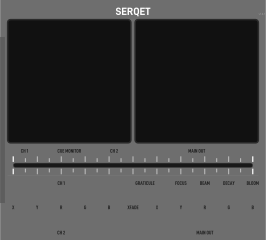
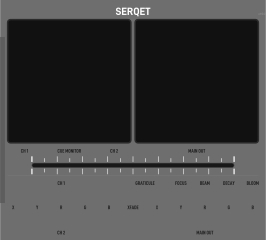
feat(Serqet): 108.24mm crossfader, bumper cut buttons, CV-driven grabber, and calibrated defaults (v1.5.0)

diff --git a/src/Serqet.cpp b/src/Serqet.cpp
@@ -69,6 +69,8 @@ struct Serqet : Module {
 		CROSSFADE_PARAM,
 		CUE_CH1_PARAM,
 		CUE_CH2_PARAM,
+		BUMPER_CH1_PARAM,
+		BUMPER_CH2_PARAM,
 		PARAMS_LEN
 	};
 
@@ -135,6 +137,9 @@ struct Serqet : Module {
 	int cueSource = 0;
 	dsp::BooleanTrigger ch1BtnTrigger;
 	dsp::BooleanTrigger ch2BtnTrigger;
+	dsp::BooleanTrigger bumperCh1Trigger;
+	dsp::BooleanTrigger bumperCh2Trigger;
+	std::atomic<float> effectiveAlpha{0.0f};
 
 	// Dual ring buffers for CRT displays
 	SerqetRingBuffer mainBuffer;
@@ -146,19 +151,21 @@ struct Serqet : Module {
 		// CRT Emulation Attenuverter Knobs
 		configParam(GRATICULE_CUE_PARAM, 0.0f, 1.0f, 0.25f, "Cue graticule opacity", "%", 0.0f, 100.0f);
 		configParam(GRATICULE_MAIN_PARAM, 0.0f, 1.0f, 0.0f, "Main graticule opacity", "%", 0.0f, 100.0f);
-		// Focus: 0.06mm (0%) to 0.725mm (100%), default 10% (~0.13mm)
-		configParam(FOCUS_PARAM, 0.0f, 1.0f, 0.10f, "Focus", "%", 0.0f, 100.0f);
-		// Beam Intensity: 25% (0%) to 150% (100%), default 0%
-		configParam(BEAM_PARAM, 0.0f, 1.0f, 0.00f, "Beam intensity", "%", 0.0f, 100.0f);
+		// Focus: min = current 40%, max = current 200%, default = current 50%
+		configParam(FOCUS_PARAM, 0.0f, 1.0f, 0.50f, "Focus", "%", 0.0f, 100.0f);
+		// Beam Intensity: default 50%
+		configParam(BEAM_PARAM, 0.0f, 1.0f, 0.50f, "Beam intensity", "%", 0.0f, 100.0f);
 		// Phosphor Decay: non-linear tanh afterglow, max 75%, default 5%
 		configParam(DECAY_PARAM, 0.0f, 1.0f, 0.05f, "Phosphor decay", "%", 0.0f, 100.0f);
-		// Optical Bloom: dual-scale halation and glass scatter, default 30%
-		configParam(BLOOM_PARAM, 0.0f, 1.0f, 0.30f, "Bloom", "%", 0.0f, 100.0f);
+		// Optical Bloom: dual-scale halation and glass scatter, default 25%
+		configParam(BLOOM_PARAM, 0.0f, 1.0f, 0.25f, "Bloom", "%", 0.0f, 100.0f);
 
-		// Horizontal Crossfade Slider & Cue Buttons
+		// Horizontal Crossfade Slider, Cue Buttons & Bumper Buttons
 		configParam(CROSSFADE_PARAM, 0.0f, 1.0f, 0.0f, "Crossfade", "%", 0.0f, 100.0f);
 		configButton(CUE_CH1_PARAM, "Cue channel 1");
 		configButton(CUE_CH2_PARAM, "Cue channel 2");
+		configButton(BUMPER_CH1_PARAM, "Channel 1 crossfader bumper");
+		configButton(BUMPER_CH2_PARAM, "Channel 2 crossfader bumper");
 
 		// Inputs
 		configInput(CH1_X_INPUT, "Ch 1 X");
@@ -241,6 +248,14 @@ struct Serqet : Module {
 			cueSource = 1;
 		}
 
+		// 1b. Process Bumper Buttons to immediately snap crossfader
+		if (bumperCh1Trigger.process(params[BUMPER_CH1_PARAM].getValue() > 0.5f)) {
+			params[CROSSFADE_PARAM].setValue(0.0f);
+		}
+		if (bumperCh2Trigger.process(params[BUMPER_CH2_PARAM].getValue() > 0.5f)) {
+			params[CROSSFADE_PARAM].setValue(1.0f);
+		}
+
 		// 2. Crossfade alpha
 		// Fader value 0.0 = Left (Ch 1), value 1.0 = Right (Ch 2)
 		float fader = params[CROSSFADE_PARAM].getValue();
@@ -248,6 +263,7 @@ struct Serqet : Module {
 			fader += inputs[XFADE_CV_INPUT].getVoltage() * 0.1f; // Positive CV pushes towards Ch 2 (right)
 		}
 		float alpha = clamp(fader, 0.0f, 1.0f); // 0.0 = Ch 1, 1.0 = Ch 2
+		effectiveAlpha.store(alpha, std::memory_order_relaxed);
 		float mixGain2 = computeCrossfadeRatio(alpha);
 		float mixGain1 = (xfadeCurve == XFADE_CONSTANT_POWER) ? std::cos(alpha * 1.57079632679f) : (1.0f - mixGain2);
 
@@ -526,10 +542,13 @@ struct SerqetCrtWidget : widget::TransparentWidget {
 
 		// 2. Electron Beam Spot & Intensity Setup (Analytical erf Gaussian Integration)
 		// Calibrated Focus Range:
-		// focusNorm = 0.0 (0%) -> sigma = 0.40 px (razor-thin sub-pixel beam, FWHM 0.94 px)
-		// focusNorm = 0.10 (10% default) -> sigma = 0.445 px (FWHM 1.05 px, visible width 2.5 - 3 px matching sosci)
-		// focusNorm = 1.0 (100%) -> sigma = 0.85 px (FWHM 2.0 px, visible width 5 px)
-		float sigma = 0.40f + focusNorm * 0.45f;
+		// knob 0% (min) -> current 40% (sigma = 0.58 px)
+		// knob 50% (default) -> current 50% (sigma = 0.625 px)
+		// knob 100% (max) -> current 200% (sigma = 1.30 px)
+		float currentPercent = (focusNorm <= 0.5f)
+			? (0.40f + focusNorm * 0.20f)
+			: (0.50f + (focusNorm - 0.50f) * 3.0f);
+		float sigma = 0.40f + currentPercent * 0.45f;
 		float inv2Sigma2 = 1.0f / (2.0f * sigma * sigma);
 		float sqrt2Sigma = 1.41421356f * sigma;
 
@@ -966,10 +985,18 @@ struct SerqetButton : app::SvgSwitch {
 	}
 };
 
+struct SerqetBumperButton : app::SvgSwitch {
+	SerqetBumperButton() {
+		momentary = true;
+		addFrame(Svg::load(asset::plugin(pluginInstance, "res/btn_bumper_0.svg")));
+		addFrame(Svg::load(asset::plugin(pluginInstance, "res/btn_bumper_1.svg")));
+	}
+};
+
 struct SerqetFader : app::SvgSlider {
 	SerqetFader() {
 		horizontal = true;
-		box.size = mm2px(math::Vec(128.24f, 10.00f));
+		box.size = mm2px(math::Vec(108.24f, 10.00f));
 		fb->box.size = box.size;
 		setHandleSvg(Svg::load(asset::plugin(pluginInstance, "res/crossfader.svg")));
 		float halfHandleX = handle->box.size.x / 2.0f;
@@ -978,6 +1005,15 @@ struct SerqetFader : app::SvgSlider {
 			math::Vec(halfHandleX, cy),                  // minValue (0.0, Ch 1) at LEFT
 			math::Vec(box.size.x - halfHandleX, cy)     // maxValue (1.0, Ch 2) at RIGHT
 		);
+	}
+
+	void step() override {
+		SvgSlider::step();
+		auto* mod = dynamic_cast<Serqet*>(module);
+		if (mod && handle) {
+			float norm = mod->effectiveAlpha.load(std::memory_order_relaxed);
+			handle->box.pos = minHandlePos.plus(maxHandlePos.minus(minHandlePos).mult(norm));
+		}
 	}
 };
 
@@ -1119,8 +1155,13 @@ struct SerqetWidget : ModuleWidget {
 		addParam(createParamCentered<SerqetButton>(mm2px(Vec(7.00f, 80.00f)), module, Serqet::CUE_CH1_PARAM));
 		addParam(createParamCentered<SerqetButton>(mm2px(Vec(67.00f, 80.00f)), module, Serqet::CUE_CH2_PARAM));
 
-		// ── Horizontal Crossfader Slider (Center X = 71.12 mm, Center Y = 88.50 mm) ──
+		// ── Horizontal Crossfader Slider (Center X = 71.12 mm, Center Y = 88.50 mm, Travel = 108.24 mm) ──
 		addParam(createParamCentered<SerqetFader>(mm2px(Vec(71.12f, 88.50f)), module, Serqet::CROSSFADE_PARAM));
+
+		// ── Crossfader Bumper Buttons (8x8mm, Center Y = 88.50 mm) ──
+		// Ch 1 bumper at Center X = 9.00 mm, Ch 2 bumper at Center X = 133.24 mm
+		addParam(createParamCentered<SerqetBumperButton>(mm2px(Vec(9.00f, 88.50f)), module, Serqet::BUMPER_CH1_PARAM));
+		addParam(createParamCentered<SerqetBumperButton>(mm2px(Vec(133.24f, 88.50f)), module, Serqet::BUMPER_CH2_PARAM));
 
 		// ── Row 1 (Center Y = 104.00 mm) ──
 		// CH 1 Inputs (X, Y, R, G, B)

diff --git a/scratch/generate_serqet_panel.py b/scratch/generate_serqet_panel.py
@@ -86,7 +86,7 @@ def generate_serqet_panel(skin):
     # Module Title: Fixed Y = 8.000 mm (D-DIN-Bold 16 pt, centered)
     svg.append(render_text(ddin_bold, 'SERQET', mid_x, 8.000, 16.0, title_color))
     # Version Tag: Fixed Y = 8.000 mm (Quicksand-Regular 4.5 pt, X = W - 2.15 mm)
-    svg.append(render_text(quicksand, 'v1.4.1', panel_w - 2.15, 8.000, 4.5, version_color))
+    svg.append(render_text(quicksand, 'v1.5.0', panel_w - 2.15, 8.000, 4.5, version_color))
     
     # ── ZONE 2: SIDE-BY-SIDE DUAL CRT SCOPES ──
     # Scope 1 (CUE MONITOR): 66 x 66 mm, 1.5 mm corner radius, Center (37.00, 43.50)
@@ -112,13 +112,13 @@ def generate_serqet_panel(skin):
     svg.append(render_text(ddin_cond_bold, 'MAIN OUT', 105.24, lbl_y, 8.0, label_color))
     
     # ── HORIZONTAL CROSSFADER SLIDER ──
-    # Width: 128.24 mm, Center X: 71.12, Center Y: 88.50
-    # Slot from X = 7.00 to 135.24 mm
-    fader_w = 128.24
+    # Width: 108.24 mm, Center X: 71.12, Center Y: 88.50
+    # Slot from X = 17.00 to 125.24 mm
+    fader_w = 108.24
     fader_cx = 71.12
     fader_cy = 88.50
-    slot_x0 = fader_cx - fader_w / 2.0  # 7.00 mm
-    slot_x1 = fader_cx + fader_w / 2.0  # 135.24 mm
+    slot_x0 = fader_cx - fader_w / 2.0  # 17.00 mm
+    slot_x1 = fader_cx + fader_w / 2.0  # 125.24 mm
     
     svg.append('  <!-- Horizontal Fader Slot Graphic -->')
     svg.append(f'  <rect x="{slot_x0:.2f}" y="{fader_cy - 1.20:.2f}" width="{fader_w:.2f}" height="2.40" rx="1.2" ry="1.2" fill="#181818" stroke="{border_color}" stroke-width="0.3" />')
@@ -126,8 +126,8 @@ def generate_serqet_panel(skin):
     # Crossfader scale hash marks: alternating full height (3.0mm) and 2/3 height (2.0mm)
     # Extremities thicker than the rest. White for Medium/Dark, border_color for Light.
     fader_hash_color = '#ffffff' if skin['name'] in ['Medium', 'Dark'] else skin['border_color']
-    num_ticks = 21  # 20 intervals of 6.412 mm across 128.24 mm
-    tick_step = fader_w / (num_ticks - 1)  # 6.412 mm
+    num_ticks = 17  # 16 intervals of 6.765 mm across 108.24 mm, center tick at k=8 (X=71.12 mm)
+    tick_step = fader_w / (num_ticks - 1)  # 6.765 mm
     for k in range(num_ticks):
         tx = slot_x0 + k * tick_step
         is_extremity = (k == 0 or k == num_ticks - 1)
